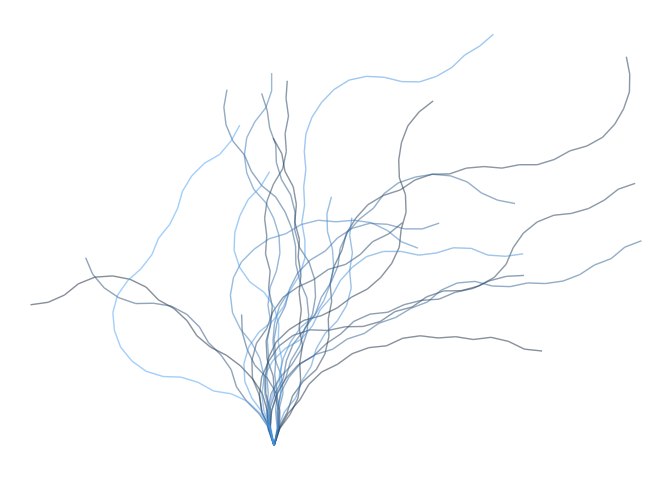
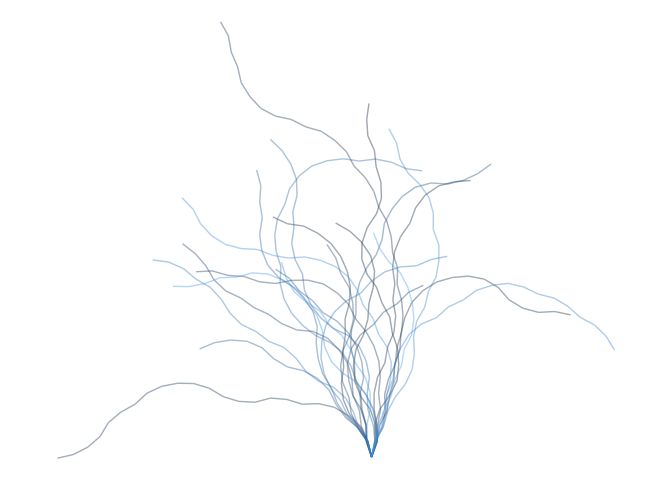
variable twig length

diff --git a/README.md b/README.md
@@ -3,6 +3,12 @@
 Tree GenViz
 ===========
 
+Todo
+
+-   variable branch peice length \[✓\]
+-   Make work with data instead of Gen \[\]
+-   Save direction as variable \[\]
+
 Packages
 ========
 
@@ -16,6 +22,7 @@ library(tidyverse)
 #> ── Conflicts ── tidyverse_conflicts() ──
 #> ✖ dplyr::filter() masks stats::filter()
 #> ✖ dplyr::lag()    masks stats::lag()
+library(ehlib)
 ```
 
 Loading custom functions
@@ -35,6 +42,8 @@ angle_fun <- function(n, min_angle = 10, max_angle = 20) {
   sign * size
 }
 length_fun <- function(n) rpois(n = n, lambda = 20)
+
+twig_fun <- function(n) ehlib::rztpois(n = n, lambda = 2)
 ```
 
 Example
@@ -42,20 +51,20 @@ Example
 
 ``` r
 treeViz(5, angle_fun, length_fun)
-#> # A tibble: 105 x 5
-#>    x_from   x_to y_from  y_to group
-#>     <dbl>  <dbl>  <dbl> <dbl> <int>
-#>  1  0     -0.191   1.00  1.98     1
-#>  2 -0.191 -0.691   1.98  2.85     1
-#>  3 -0.691 -1.46    2.85  3.49     1
-#>  4 -1.46  -2.37    3.49  3.90     1
-#>  5 -2.37  -3.10    3.90  4.58     1
-#>  6 -3.10  -3.63    4.58  5.43     1
-#>  7 -3.63  -4.33    5.43  6.15     1
-#>  8 -4.33  -5.20    6.15  6.63     1
-#>  9 -5.20  -6.17    6.63  6.89     1
-#> 10 -6.17  -7.03    6.89  7.39     1
-#> # ... with 95 more rows
+#> # A tibble: 119 x 5
+#>     x_from    x_to y_from  y_to group
+#>      <dbl>   <dbl>  <dbl> <dbl> <int>
+#>  1  0       0.174    1.00  1.98     1
+#>  2  0.174   0.0345   1.98  2.98     1
+#>  3  0.0345 -0.275    2.98  3.93     1
+#>  4 -0.275  -0.257    3.93  4.93     1
+#>  5 -0.257  -0.482    4.93  5.90     1
+#>  6 -0.482  -0.447    5.90  6.90     1
+#>  7 -0.447  -0.706    6.90  7.87     1
+#>  8 -0.706  -1.16     7.87  8.76     1
+#>  9 -1.16   -1.44     8.76  9.72     1
+#> 10 -1.44   -1.38     9.72 10.7      1
+#> # ... with 109 more rows
 ```
 
 Try of single branch
@@ -79,10 +88,32 @@ treeViz(25, angle_fun, length_fun) %>%
   ggplot(aes(x = x_from, xend = x_to,
              y = y_from, yend = y_to, 
              group = group, color = group)) +
-  geom_curve(curvature = 0, alpha = 0.5) +
+  geom_curve(curvature = 0, alpha = 0.4) +
   coord_fixed() +
   theme_void() +
   guides(color = "none")
 ```
 
 ![](README_files/figure-markdown_github/unnamed-chunk-6-1.png)
+
+``` r
+angle_fun <- function(n, min_angle = 20, max_angle = 40) {
+  sign <- sample(c(-1, 1), size = n, replace = TRUE) / 360 * 2 * pi
+  size <- sample(min_angle:max_angle, size = n, replace = TRUE)
+  sign * size
+}
+length_fun <- function(n) rpois(n = n, lambda = 20)
+
+twig_fun <- function(n) ehlib::rztpois(n = n, lambda = 1)
+
+treeViz(25, angle_fun, length_fun, twig_fun) %>%
+  ggplot(aes(x = x_from, xend = x_to,
+             y = y_from, yend = y_to, 
+             group = group, color = group)) +
+  geom_curve(curvature = 0, alpha = 0.4) +
+  coord_fixed() +
+  theme_void() +
+  guides(color = "none")
+```
+
+![](README_files/figure-markdown_github/unnamed-chunk-7-1.png)
